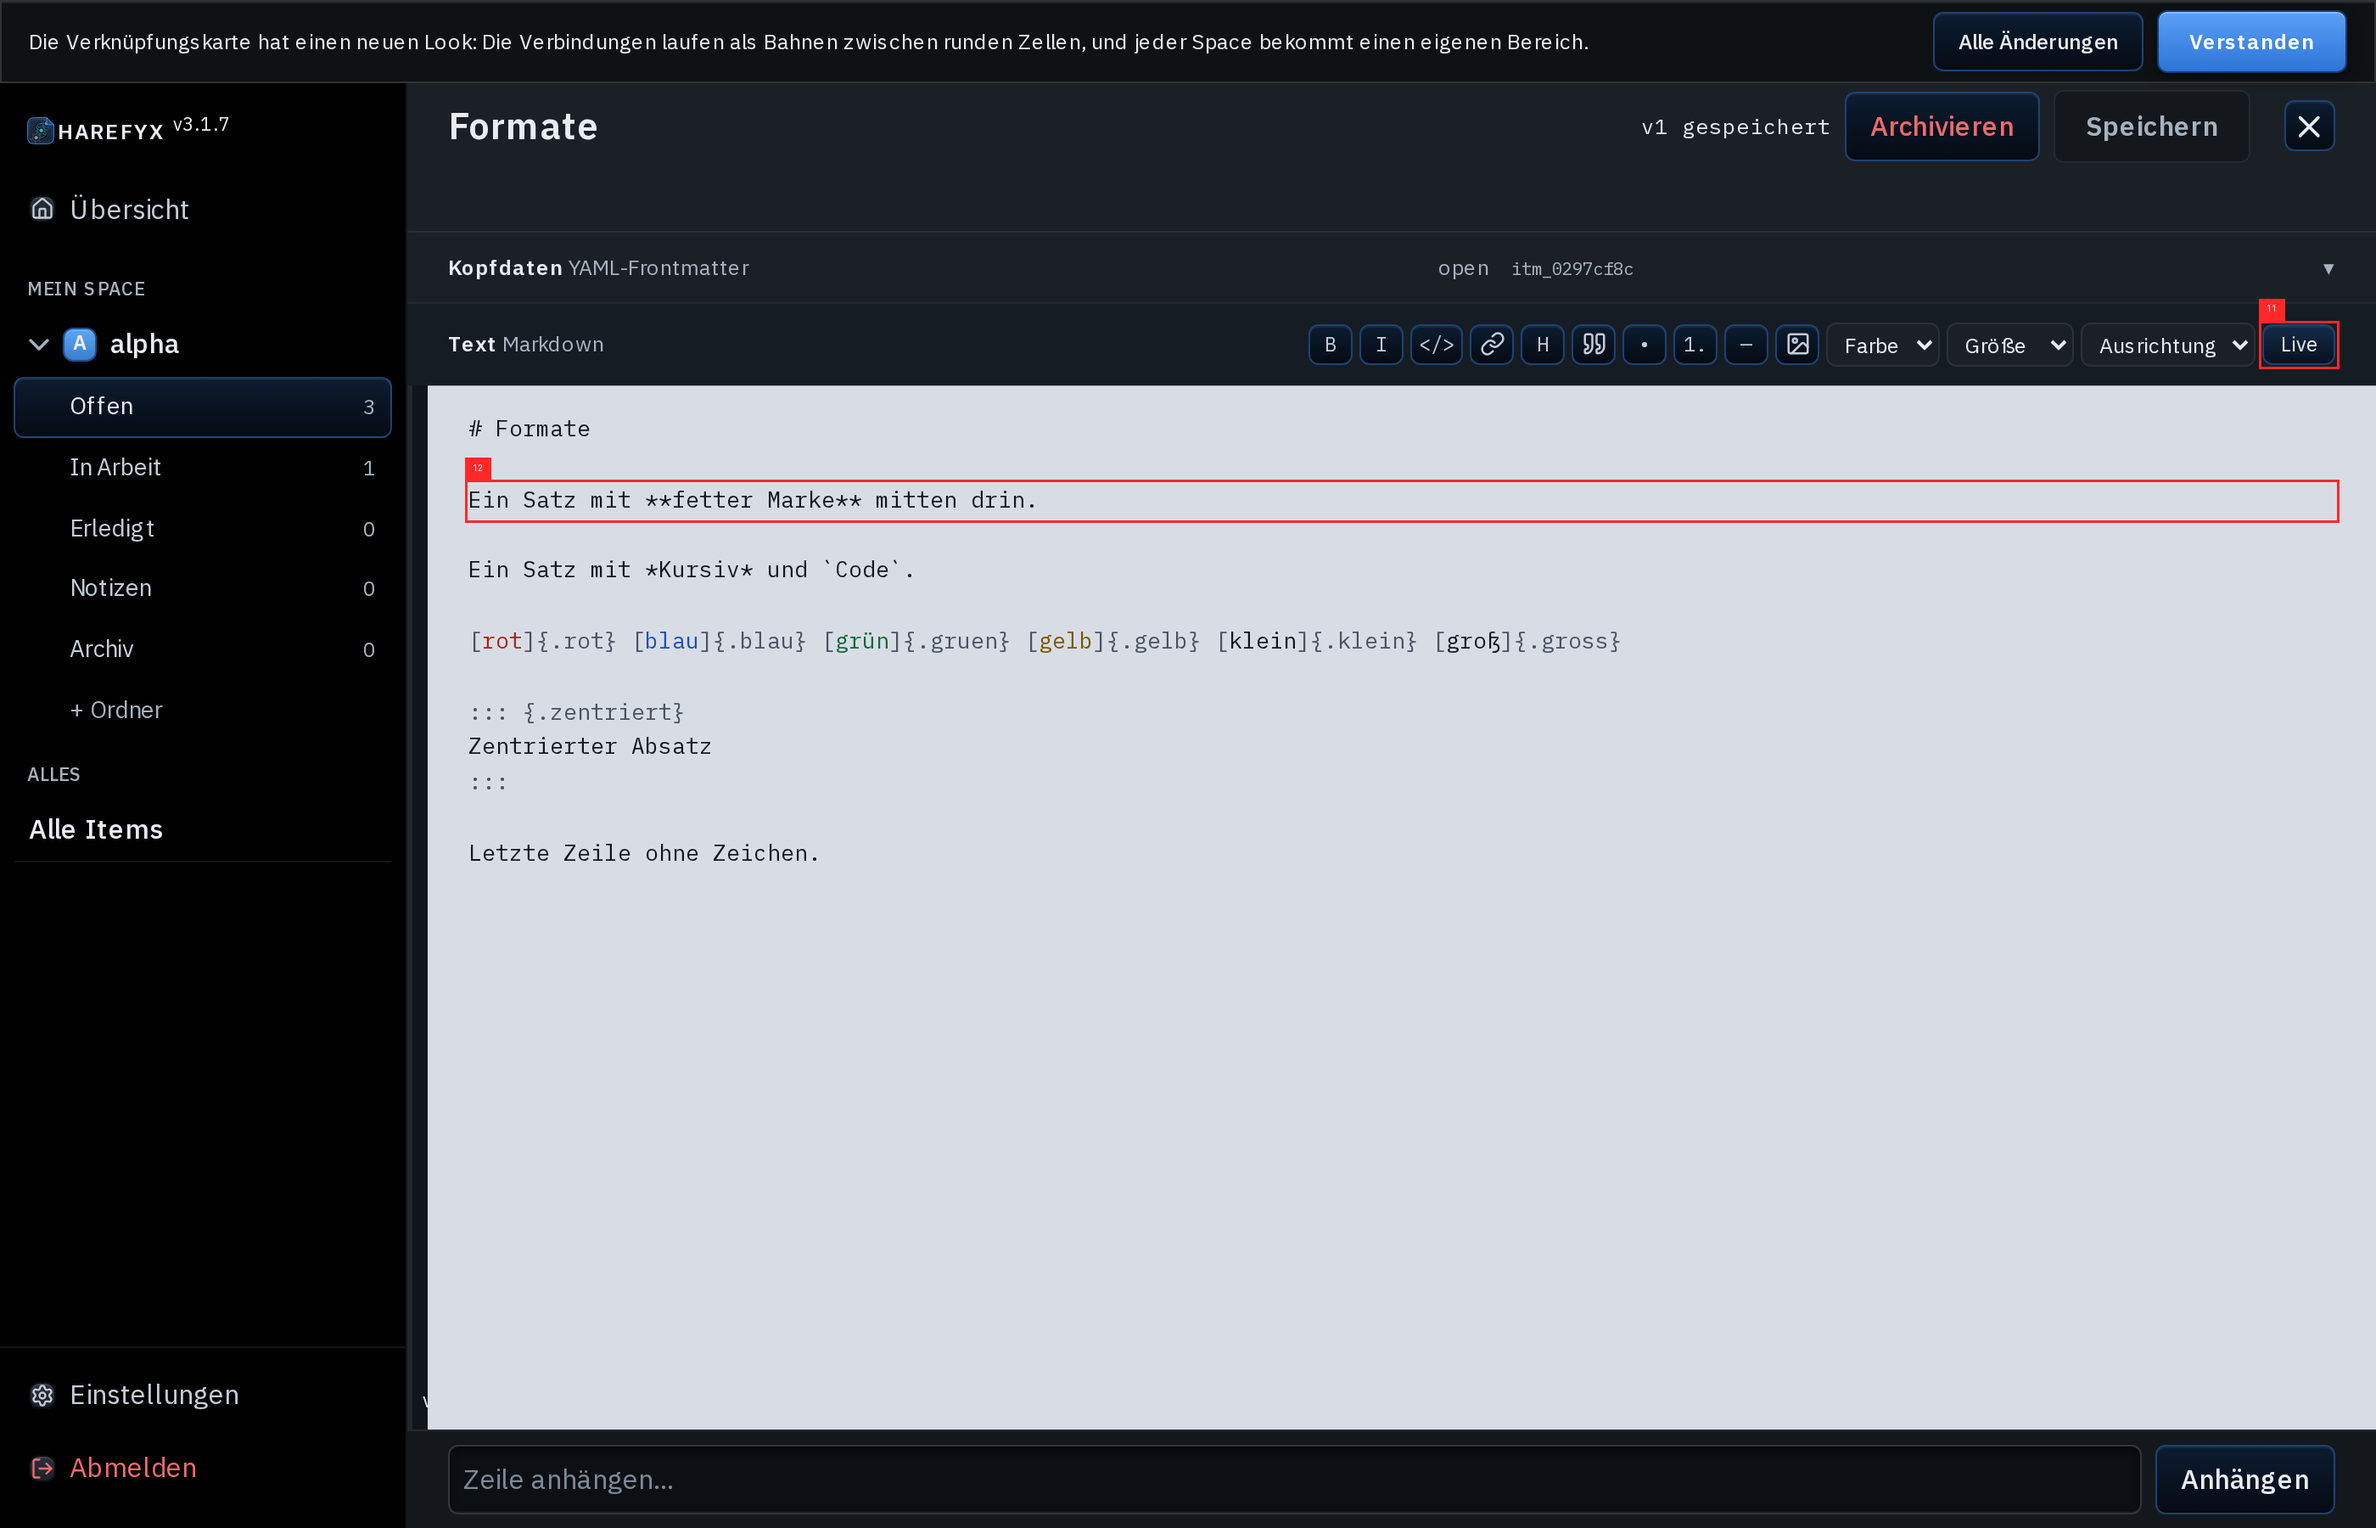
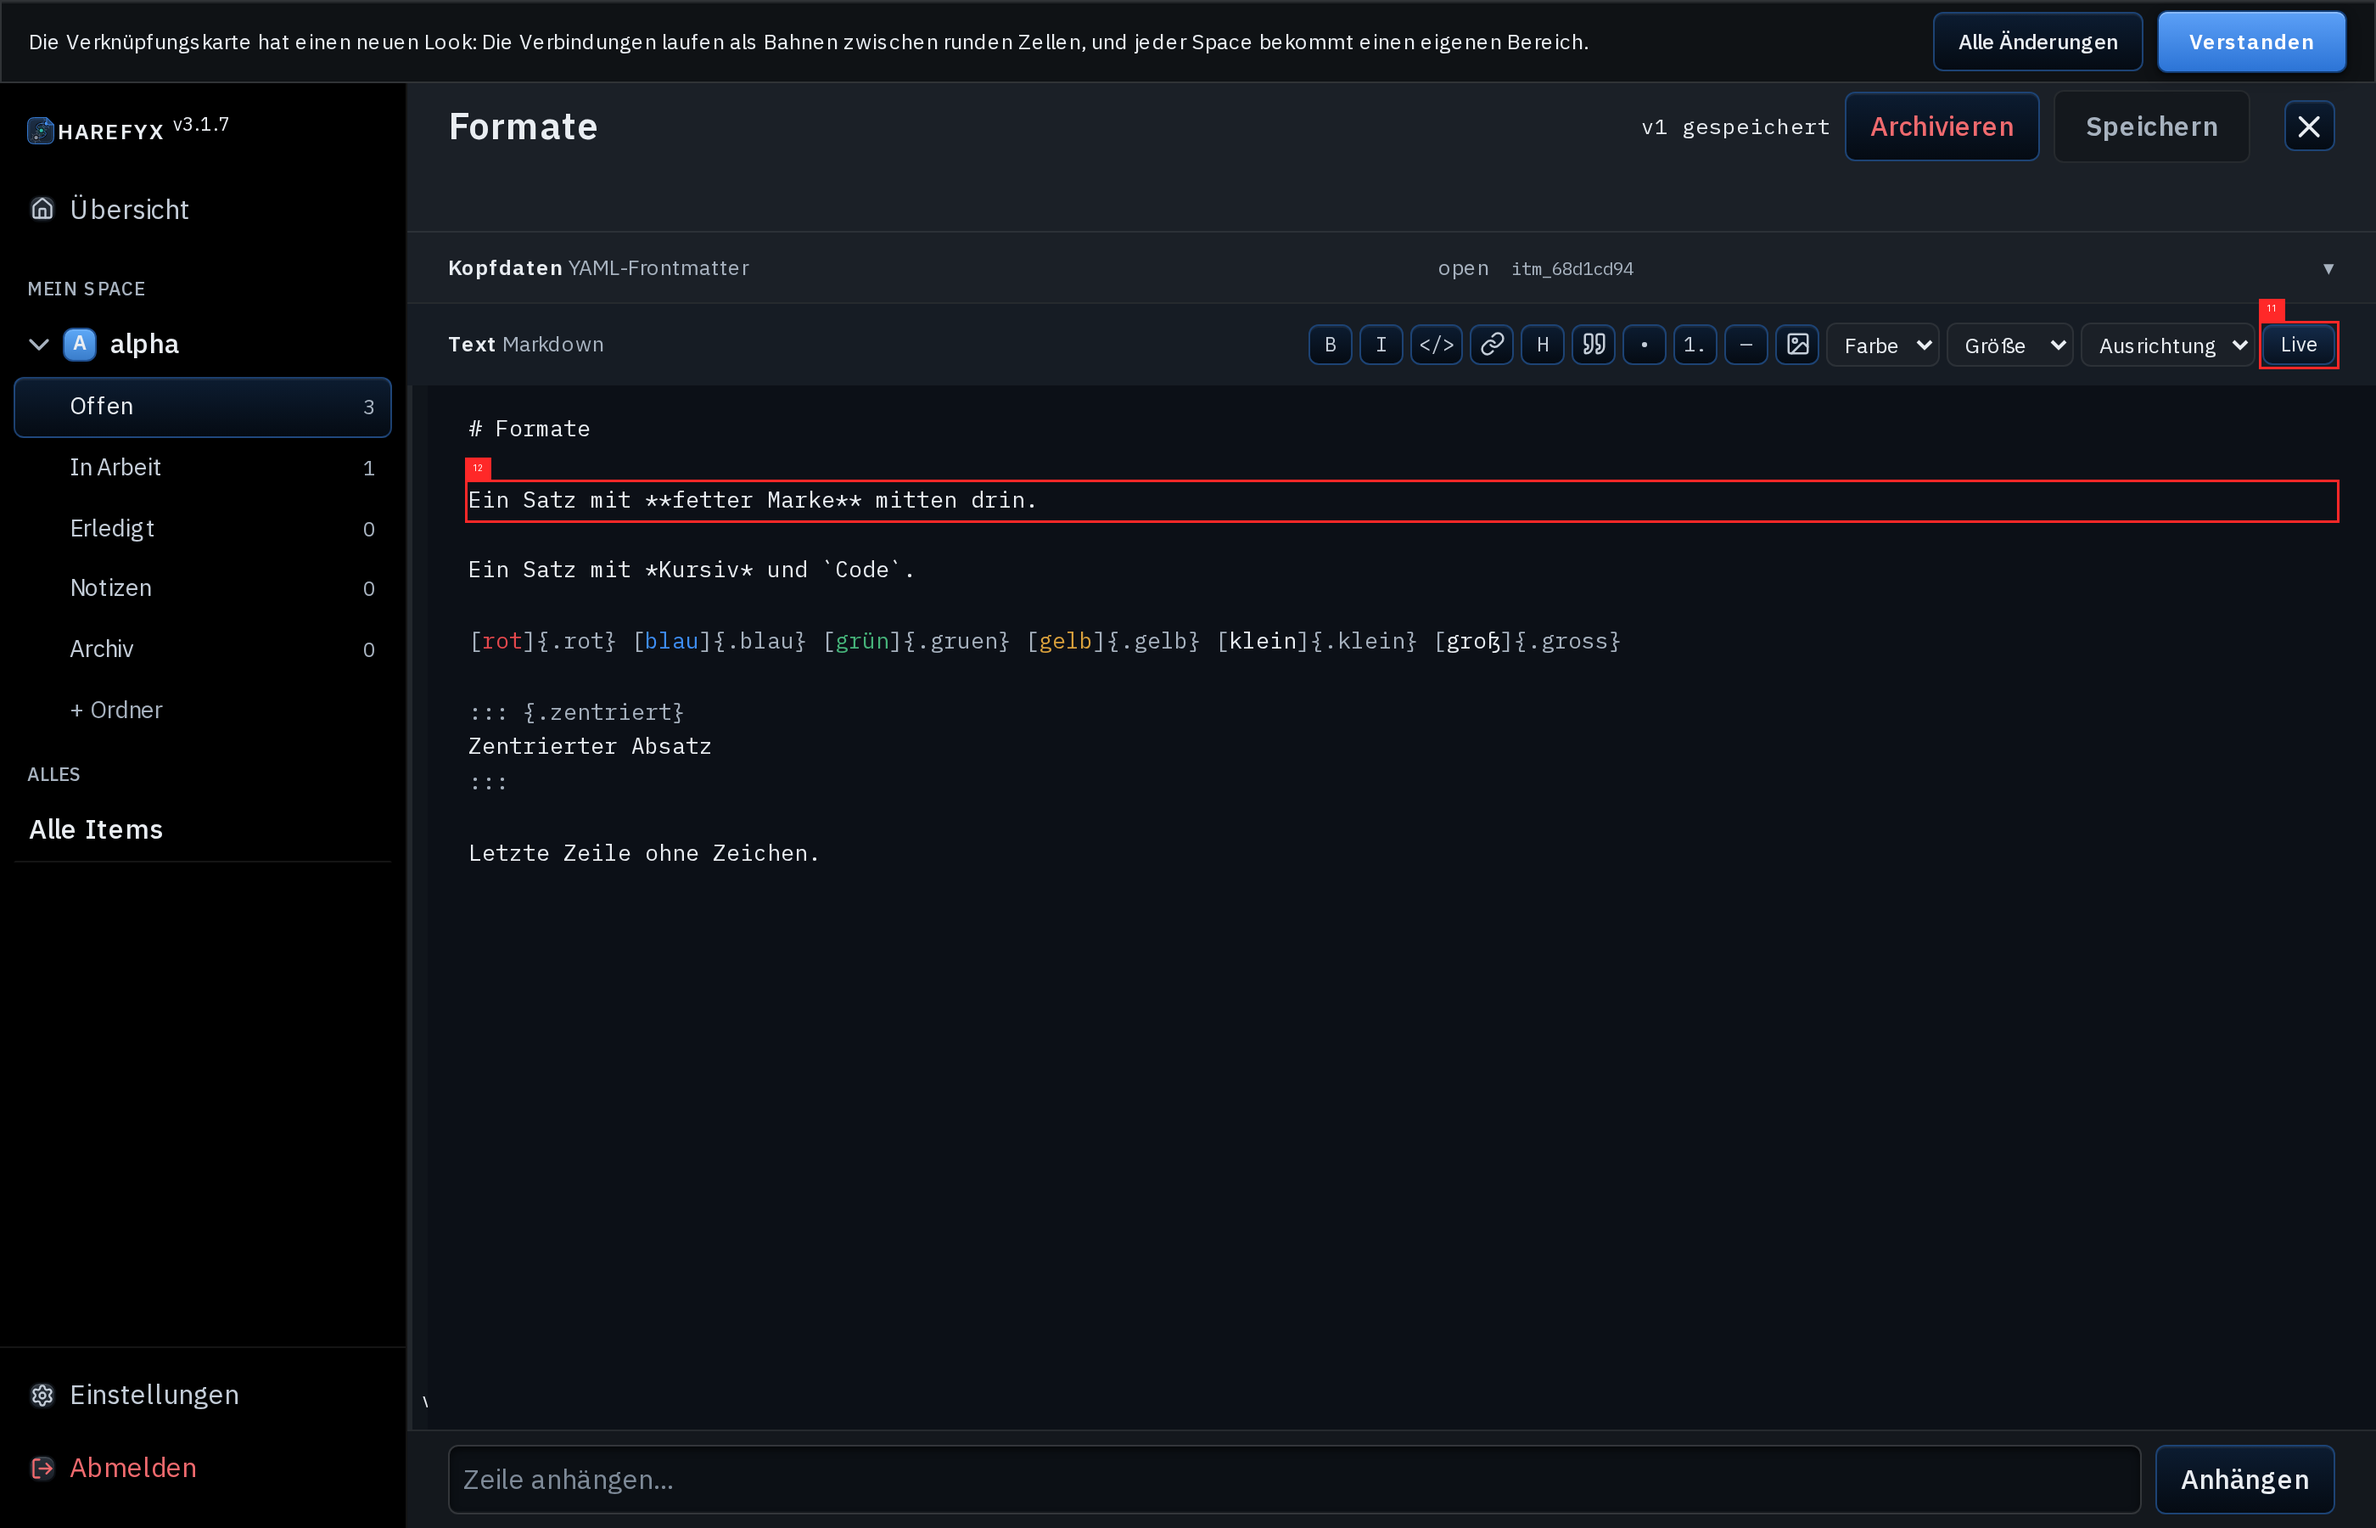
phase 10.5 Block 11 Nachzug: Editorflaeche bleibt dunkel (Nikinger-Praezisierung) -- --editor-bg tiefer als das Panel, UI-Toene fuer Text und Formatfarben; Sichtungsbilder neu

diff --git a/phase5_ui/webui/static/app.css b/phase5_ui/webui/static/app.css
@@ -65,18 +65,18 @@
      nicht — sie sind hier **neu** und aus demselben Dunkelheits-Familie abgeleitet. */
   --format-gruen:  #46B37A;
   --format-gelb:   #D9A03C;
-  /* Der Editor ist eine **helle Schreibfläche** (bewusst, 2026-10-25): auf Hell gilt Dunkel.
-   * Die UI-Töne `--text`/`--accent` sind für den dunklen Grund gemacht und würden dort
-   * verschwinden — deshalb eigene Töne, alle ≥ 4,5:1 auf `--editor-bg`. */
-  --editor-bg:     #D8DDE5;
-  --editor-text:   #12161C;
-  --editor-faint:  #4A5262;
-  --editor-select: #B7C6E4;
-  --editor-link:   #1B4FB5;
-  --editor-rot:    #A8211B;
-  --editor-blau:   #1B4FB5;
-  --editor-gruen:  #17663A;
-  --editor-gelb:   #7A5600;
+  /* Der Editor bleibt **dunkel** (Nikinger 2026-10-25: „die bisherige Farbe, gern noch etwas
+   * dunkler"): eine Schreibfläche, die tiefer liegt als das Panel. Auf Dunkel gilt Hell —
+   * die UI-Töne passen, die Format-Farben sind die hellen Tokens oben. */
+  --editor-bg:     #0C1017;
+  --editor-text:   var(--text);
+  --editor-faint:  var(--text-faint);
+  --editor-link:   var(--accent);
+  --editor-select: rgba(62,141,243,.30);
+  --editor-rot:    var(--danger);
+  --editor-blau:   var(--accent);
+  --editor-gruen:  var(--format-gruen);
+  --editor-gelb:   var(--format-gelb);
 
   --warn:          #E5A93C;   /* Konflikt */
   --danger:        #E5484D;   /* Widerruf, Archivieren */

diff --git a/phase10_5_finishing/CLAUDE.md b/phase10_5_finishing/CLAUDE.md
@@ -168,11 +168,12 @@ CSS **hinter** `app.css` an, bei gleicher Spezifität gewinnt es (`.CodeMirror`,
 `.cm-link`). (B) Das **Format-Overlay färbt nichts**: `[rot]{.rot}` erscheint als blauer Link plus
 Text `{.rot}`, `app.css` kennt keine `cm-…`-Regel dazu (11.6 hatte das als „nicht gemessen“ benannt).
 (C) `::: {.zentriert}` bleibt Rohtext. Cursorzeile, To-do-Kästchen, Rohtext, UI-4 sehen richtig aus.
-**Entscheidung Nikinger (2026-10-25): die Fläche bleibt hell** (leicht abgedunkelt, `--editor-bg`),
-auf Hell gilt Dunkel — eigene `--editor-*`-Töne statt der UI-Töne. **Behoben:** (A) Vendor-CSS
-wird **vor** `app.css` eingefügt, Editor-Töne ≥ 4,5:1; (B) Overlay zerlegt `[Text]{.rot}` in
-Zeichen (ausgeblendet außerhalb der Cursorzeile) und Text (Farbe); (C) `:::`-Zeilen sind
-Zeichen (Ausrichtung selbst zeigt nur die Vorschau). Suite **1576 grün**. **P10.5-51 bleibt ⬜**
+**Entscheidung Nikinger (2026-10-25): die Fläche bleibt dunkel** (die bisherige Farbe, gern noch
+etwas dunkler → `--editor-bg` `#0C1017`, tiefer als das Panel; ein erster Entwurf mit heller
+Fläche war ein Missverständnis und ist zurückgenommen). Text und Format-Farben sind die hellen
+UI-Töne. **Behoben:** (A) Vendor-CSS wird **vor** `app.css` eingefügt; (B) Overlay zerlegt
+`[Text]{.rot}` in Zeichen (ausgeblendet außerhalb der Cursorzeile) und Text (Farbe); (C) `:::`-Zeilen
+sind Zeichen (Ausrichtung selbst zeigt nur die Vorschau). Suite **1576 grün**. **P10.5-51 bleibt ⬜**
 bis zur Sichtung der neuen Bilder.
 
 **Nächster Schritt.** **Block Z (Closeout)** — erst nach P10.5-27/28 live (Nikinger). Beim

diff --git a/docs/INDEX.md b/docs/INDEX.md
@@ -59,7 +59,7 @@ updated: 2026-10-25 (B12: DO-1/LG-6 — drei Heads und ROADMAP unter dem Softcap
 
 ## Phase 10.5 — 🔄 in Arbeit (Finishing — alle Baustellen schließen; Plan `docs/concepts/phase10_5_finishing_plan.md`)
 
-- [phase10_5_finishing/CLAUDE.md](../phase10_5_finishing/CLAUDE.md) — 📗 **22926 B** · Phase-10.5-Head: Modulstatus der Blöcke 0–12/Z, Deploy-Tabelle A–D, Abnahmestand (51 ✅ · 0 ⚠ · 10 ⬜; geschlossene Zeilen im Archiv), offene Punkte beim Nikinger, ein Session-Block (≤ 4 KiB, DO-3)
+- [phase10_5_finishing/CLAUDE.md](../phase10_5_finishing/CLAUDE.md) — 📗 **23031 B** · Phase-10.5-Head: Modulstatus der Blöcke 0–12/Z, Deploy-Tabelle A–D, Abnahmestand (51 ✅ · 0 ⚠ · 10 ⬜; geschlossene Zeilen im Archiv), offene Punkte beim Nikinger, ein Session-Block (≤ 4 KiB, DO-3)
 - [phase10_5_finishing/ABNAHME_ARCHIVE.md](../phase10_5_finishing/ABNAHME_ARCHIVE.md) — 📦 **25.331 B** · L3-Archiv der **geschlossenen** Abnahmezeilen (P10.5-1–61), verbatim aus dem Head verschoben
 - [phase10_5_finishing/SESSIONS_ARCHIVE.md](../phase10_5_finishing/SESSIONS_ARCHIVE.md) — 📦 **108.657 B** · L3-Archiv der älteren Session-Blöcke dieser Phase, verbatim, newest-first
 - [phase10_5_finishing/STARTUPTRAG_ARCHIVE.md](../phase10_5_finishing/STARTUPTRAG_ARCHIVE.md) — 📦 **14291 B** · L3-Archiv der **Startaufträge von Block 7 und Block 9** (verbatim verschoben 2026-10-23/24)
